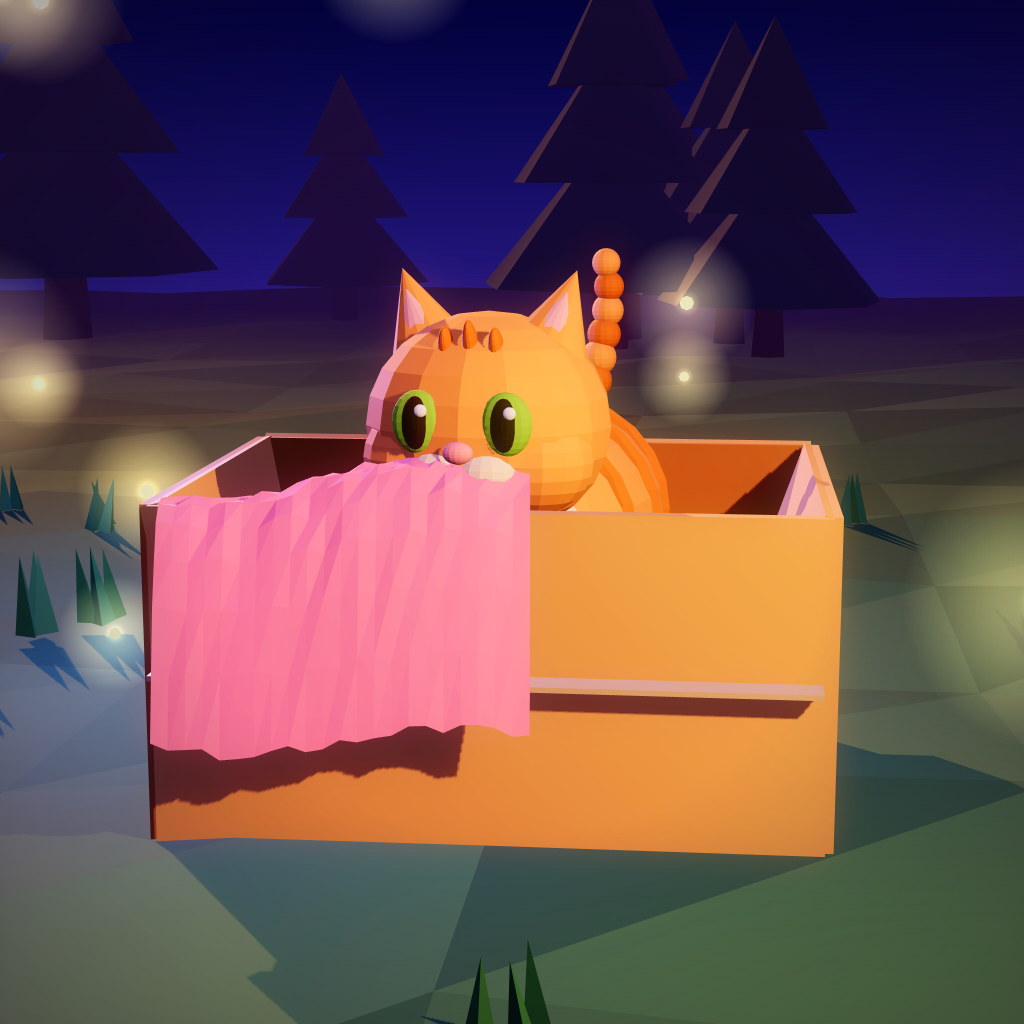
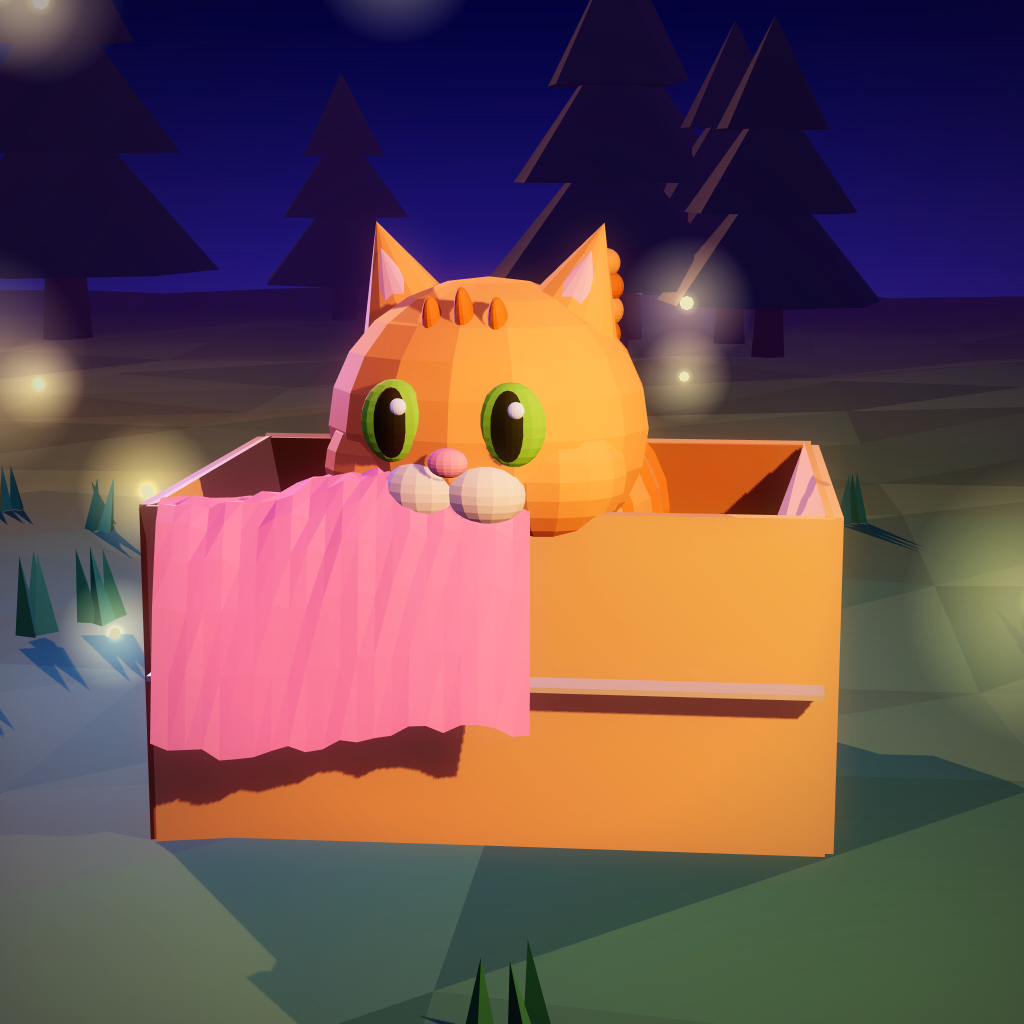
Thumbnail A: bigger kitten head (x1.3), with x1.2 and x1.45 alternatives

Changed region(s): [[0.3125, 0.2188, 0.6562, 0.5312], [0.1875, 0.4375, 0.2188, 0.5]]

diff --git a/tools/thumbscenes.js b/tools/thumbscenes.js
@@ -16,7 +16,7 @@ export const SCENES = {
     const bx = TS.cardboardBox(1.5, 0.82, 1.1); add(scene, bx);
     const inner = TS.blanket(1.4, 1.0, 0xf08fab, 0.05); inner.position.set(0, 0.32, 0); add(scene, inner);
     const drape = TS.blanket(0.8, 0.42, 0xf08fab, 0.5); drape.position.set(-0.3, 0.86, 0.58); drape.rotation.y = 0.1; add(scene, drape);
-    const k = TS.cat(COAT('orange', 'tabby', 0x8fd14f), { age: 0.75, state: 'idle', at: [0.05, 0.28, -0.1], yaw: -0.15 }); add(scene, k.g);
+    const k = TS.cat(COAT('orange', 'tabby', 0x8fd14f), { age: 0.75, state: 'idle', at: [0.05, 0.28, -0.1], yaw: -0.15, head: window.HEAD || 1.3 }); add(scene, k.g);
     TS.point(scene, [1.8, 1.8, 2.4], 0xffc98a, 2.2, 9, true);
     TS.point(scene, [-1.4, 1.2, -1.2], 0x9f8cff, 3, 6);
     for (let i = 0; i < 9; i++) { const p = TS.pine(rr(1.0, 1.8), 0x2d4a45); p.position.set(rr(-10, 10), 0, rr(-16, -10)); add(scene, p); }

diff --git a/tools/thumbstudio.js b/tools/thumbstudio.js
@@ -50,6 +50,7 @@ export function cat(coat, o = {}) {
   const i = w.W.cats.indexOf(c); if (i >= 0) w.W.cats.splice(i, 1);
   if (c.g.parent) c.g.parent.remove(c.g);
   pose(c, o.state || 'idle', o);
+  if (o.head) c.head.scale.multiplyScalar(o.head); // bigger head reads better at thumbnail size
   upgrade(c.g, o);
   if (o.at) c.g.position.set(...o.at);
   if (o.yaw !== undefined) c.g.rotation.y = o.yaw;
